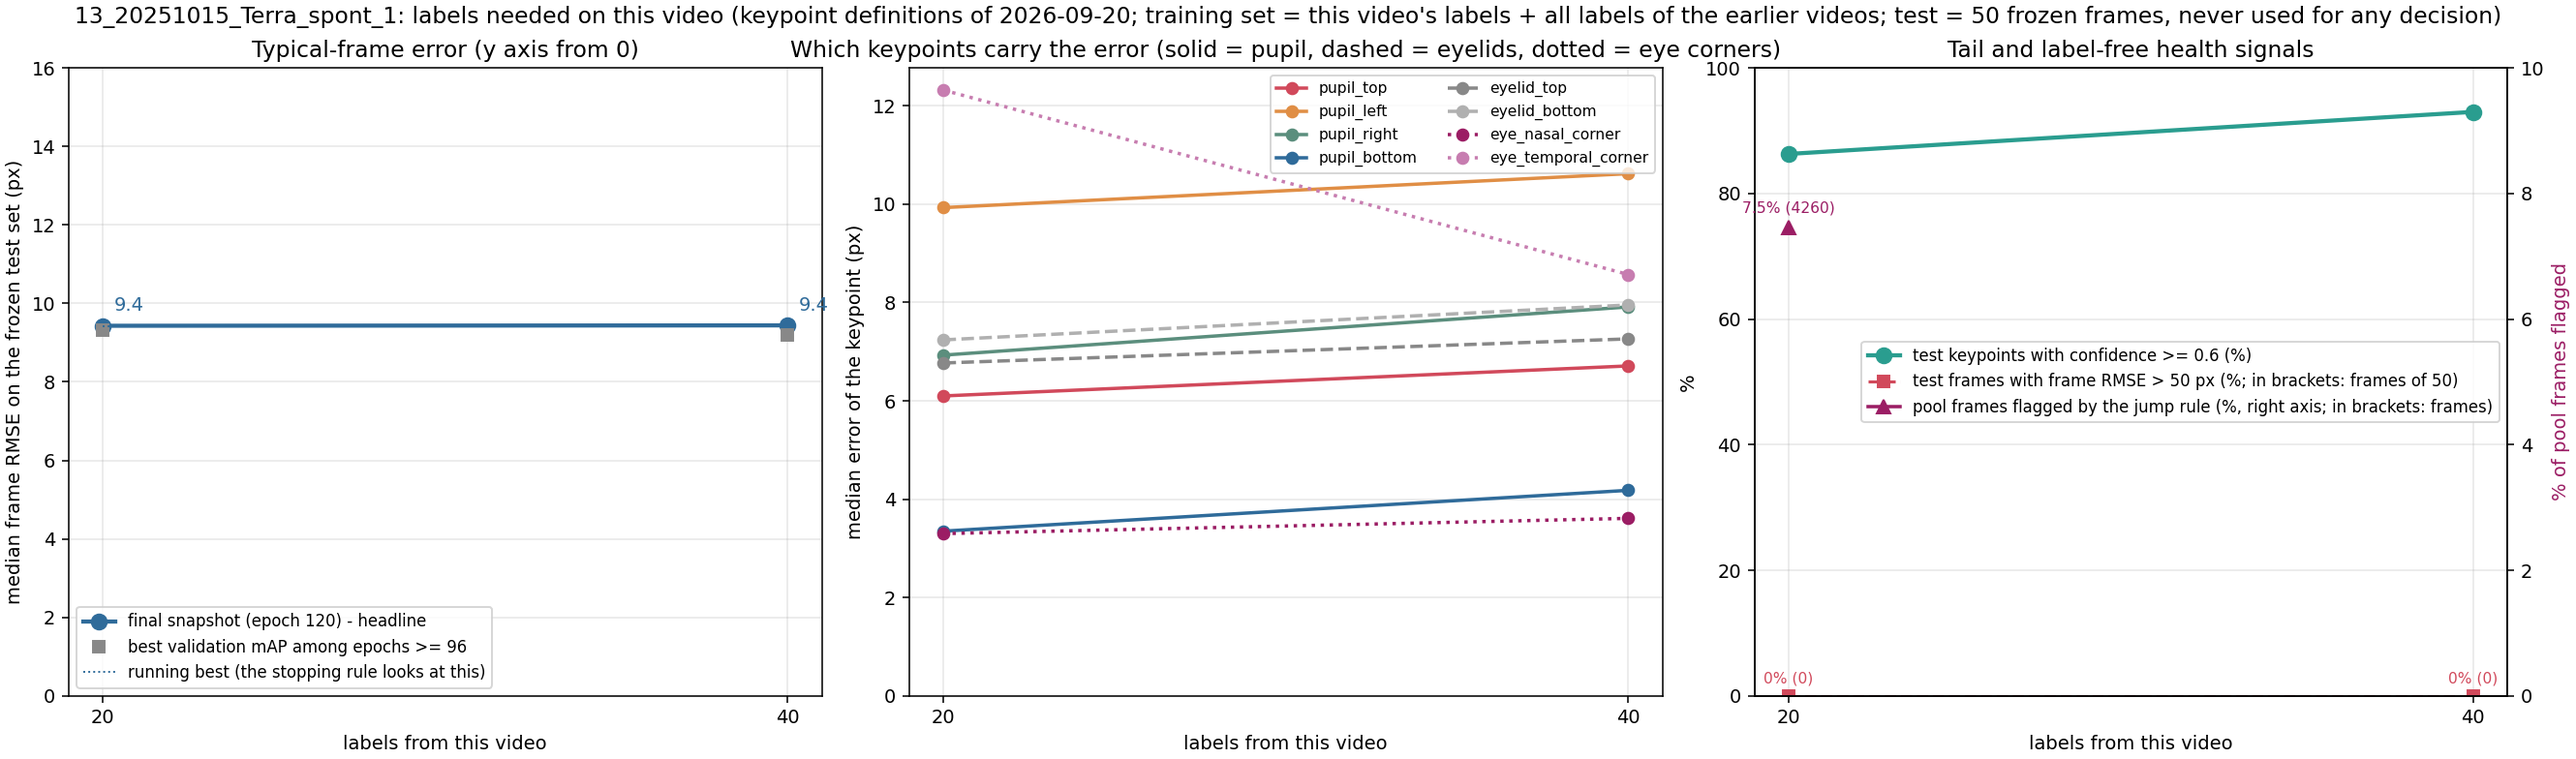
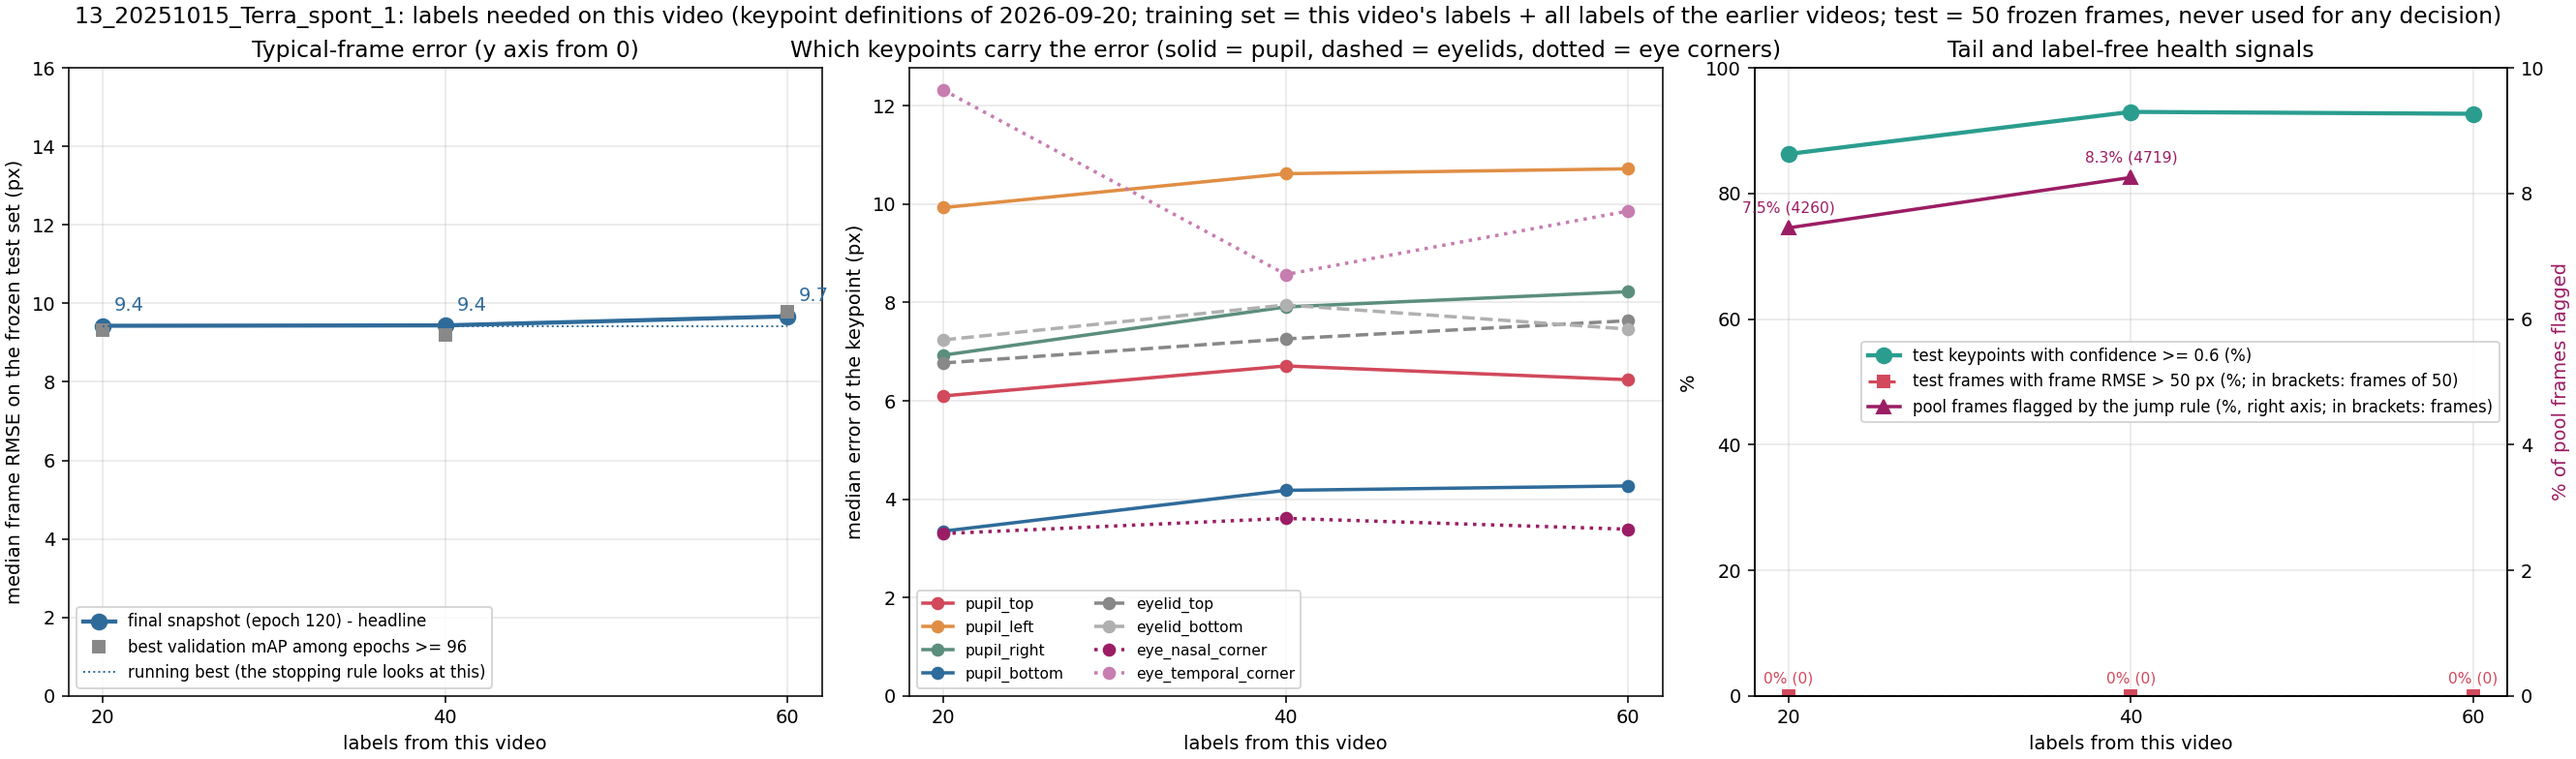
Video 13 step 3 (60 labels, shuffle 1413): 9.67 px, second flat step; plateau rule fired at 60, plateau point 20 labels 9.43 px, awaiting user decision

diff --git a/report/index.html b/report/index.html
@@ -78,7 +78,7 @@ math[display="block"]{margin:10px 0 6px;text-align:left;overflow-x:auto;max-widt
 
 <header>
   <h1><span lang="zh">小鼠眼睛关键点追踪：做了什么，结果是什么</span><span lang="en">Mouse eye keypoint tracking: what was done and what came out</span></h1>
-  <p class="muted small">Zhiheng Li (University of Minnesota), Kaiwen Sheng (Stanford) · <span lang="zh">页面生成时间</span><span lang="en">page built</span> 2026-10-06 01:17 · <a href="https://github.com/ZhihengLi0/mouse-behavior-tracking">GitHub: ZhihengLi0/mouse-behavior-tracking</a></p>
+  <p class="muted small">Zhiheng Li (University of Minnesota), Kaiwen Sheng (Stanford) · <span lang="zh">页面生成时间</span><span lang="en">page built</span> 2026-10-06 02:16 · <a href="https://github.com/ZhihengLi0/mouse-behavior-tracking">GitHub: ZhihengLi0/mouse-behavior-tracking</a></p>
 
   <div class="text" lang="zh">
     <p><b>任务：</b>用 DeepLabCut 在小鼠眼睛视频的每一帧上找 8 个点：瞳孔上、下、左、右，上眼睑、下眼睑，鼻侧眼角、颞侧眼角。由这 8 个点得到瞳孔大小、眼睛睁开程度和眨眼，之后与脑记录对齐。</p>
@@ -105,7 +105,7 @@ math[display="block"]{margin:10px 0 6px;text-align:left;overflow-x:auto;max-widt
       <li><b>瞳孔面积怎么算？</b>按 2026 年 9 月 20 日明确的定义，瞳孔四个点都是椭圆端点，在 12 个视频的 594 帧测试帧上，四点法的面积误差中位数是 6.6%，三点法是 8.3%；视频 4 和 8 上面积仍然不准（第 9 步）。</li>
       <li><b>眨眼怎么判断？</b>第一轮：上下眼睑点的距离低于该视频中位数的 70% 记为闭眼，眼睑点失效的帧按相邻关系和瞳孔置信度并入；标注者抽查 137 项，规则标出的闭眼 97% 是真的；13 个视频共 512 次闭眼事件。部分闭合算不算眨眼、眨眼的细分，还没有定（第 10 步）。</li>
     </ol>
-    <p><b>进度：</b>已完成 13 个视频（视频 0–12）；视频 13 进行中，按 0 / 20 / 40 / … 帧的误差为 69.13 / 9.43 / 9.44 px。</p>
+    <p><b>进度：</b>已完成 13 个视频（视频 0–12）；视频 13 进行中，按 0 / 20 / 40 / … 帧的误差为 69.13 / 9.43 / 9.44 / 9.67 px。</p>
   </div>
   <div class="text" lang="en">
     <p><b>Task:</b> DeepLabCut finds 8 points on every frame of a mouse-eye video: pupil top, bottom, left, right; upper and lower eyelid; nasal and temporal eye corner. From these we get pupil size, eye opening and blinks, to be aligned with brain recordings later.</p>
@@ -132,7 +132,7 @@ math[display="block"]{margin:10px 0 6px;text-align:left;overflow-x:auto;max-widt
       <li><b>How to compute the pupil area?</b> Under the definitions made explicit on 2026-09-20 all four pupil points are ellipse endpoints, and on the 594 test frames of 12 videos the four-point area has a median error of 6.6% against 8.3% for the three-point rule; on videos 4 and 8 the area is still not accurate (step 9).</li>
       <li><b>How to detect blinks?</b> First round: a frame is closed when the distance between the eyelid points is below 70% of the video's median, and frames with failed eyelid points are assigned by adjacency and pupil confidence; the labeler spot-checked 137 items and 97% of the flagged closures are real; 512 closure events on the 13 videos. Whether partial closures count, and the finer classes, are not decided (step 10).</li>
     </ol>
-    <p><b>Status:</b> 13 videos finished (videos 0–12); video 13 in progress, error at 0 / 20 / 40 / … labels: 69.13 / 9.43 / 9.44 px.</p>
+    <p><b>Status:</b> 13 videos finished (videos 0–12); video 13 in progress, error at 0 / 20 / 40 / … labels: 69.13 / 9.43 / 9.44 / 9.67 px.</p>
   </div>
 
   <div class="text" lang="zh">
@@ -621,7 +621,7 @@ math[display="block"]{margin:10px 0 6px;text-align:left;overflow-x:auto;max-widt
 <tr><td>10</td><td>Pluto<br>2025-10-22</td><td>500</td><td>18.13 / 11.83 / 10.32 / 10.49 / 10.76</td><td><span lang="zh"><b>40 帧，10.32 px</b></span><span lang="en"><b>40 labels, 10.32 px</b></span></td><td>80</td><td>40</td></tr>
 <tr><td>11</td><td>Terra<br>2025-10-17</td><td>540</td><td>25.96 / 9.24 / 8.86 / 8.77 / 8.65</td><td><span lang="zh"><b>40 帧，8.86 px</b></span><span lang="en"><b>40 labels, 8.86 px</b></span></td><td>80</td><td>40</td></tr>
 <tr><td>12</td><td>Terra<br>2025-10-16</td><td>580</td><td>5.13 / 5.77 / 5.84</td><td><span lang="zh"><b>0 帧，5.13 px</b></span><span lang="en"><b>0 labels, 5.13 px</b></span></td><td>40</td><td>0</td></tr>
-<tr><td>13</td><td>Terra<br>2025-10-15</td><td>580</td><td>69.13 / 9.43 / 9.44</td><td><span lang="zh">进行中（目前最好：20 帧，9.43 px）</span><span lang="en">in progress (best so far: 20 labels, 9.43 px)</span></td><td>40</td><td>–</td></tr>
+<tr><td>13</td><td>Terra<br>2025-10-15</td><td>580</td><td>69.13 / 9.43 / 9.44 / 9.67</td><td><span lang="zh">进行中（目前最好：20 帧，9.43 px）</span><span lang="en">in progress (best so far: 20 labels, 9.43 px)</span></td><td>60</td><td>–</td></tr>
       </tbody>
     </table>
   </div>

diff --git a/report/index_en.html b/report/index_en.html
@@ -75,7 +75,7 @@ math[display="block"]{margin:10px 0 6px;text-align:left;overflow-x:auto;max-widt
 
 <header>
   <h1><span lang="en">Mouse eye keypoint tracking: what was done and what came out</span></h1>
-  <p class="muted small">Zhiheng Li (University of Minnesota), Kaiwen Sheng (Stanford) · <span lang="en">page built</span> 2026-10-06 01:17 · <a href="https://github.com/ZhihengLi0/mouse-behavior-tracking">GitHub: ZhihengLi0/mouse-behavior-tracking</a></p>
+  <p class="muted small">Zhiheng Li (University of Minnesota), Kaiwen Sheng (Stanford) · <span lang="en">page built</span> 2026-10-06 02:16 · <a href="https://github.com/ZhihengLi0/mouse-behavior-tracking">GitHub: ZhihengLi0/mouse-behavior-tracking</a></p>
 
   
   <div class="text" lang="en">
@@ -103,7 +103,7 @@ math[display="block"]{margin:10px 0 6px;text-align:left;overflow-x:auto;max-widt
       <li><b>How to compute the pupil area?</b> Under the definitions made explicit on 2026-09-20 all four pupil points are ellipse endpoints, and on the 594 test frames of 12 videos the four-point area has a median error of 6.6% against 8.3% for the three-point rule; on videos 4 and 8 the area is still not accurate (step 9).</li>
       <li><b>How to detect blinks?</b> First round: a frame is closed when the distance between the eyelid points is below 70% of the video's median, and frames with failed eyelid points are assigned by adjacency and pupil confidence; the labeler spot-checked 137 items and 97% of the flagged closures are real; 512 closure events on the 13 videos. Whether partial closures count, and the finer classes, are not decided (step 10).</li>
     </ol>
-    <p><b>Status:</b> 13 videos finished (videos 0–12); video 13 in progress, error at 0 / 20 / 40 / … labels: 69.13 / 9.43 / 9.44 px.</p>
+    <p><b>Status:</b> 13 videos finished (videos 0–12); video 13 in progress, error at 0 / 20 / 40 / … labels: 69.13 / 9.43 / 9.44 / 9.67 px.</p>
   </div>
 
   
@@ -499,7 +499,7 @@ math[display="block"]{margin:10px 0 6px;text-align:left;overflow-x:auto;max-widt
 <tr><td>10</td><td>Pluto<br>2025-10-22</td><td>500</td><td>18.13 / 11.83 / 10.32 / 10.49 / 10.76</td><td><span lang="en"><b>40 labels, 10.32 px</b></span></td><td>80</td><td>40</td></tr>
 <tr><td>11</td><td>Terra<br>2025-10-17</td><td>540</td><td>25.96 / 9.24 / 8.86 / 8.77 / 8.65</td><td><span lang="en"><b>40 labels, 8.86 px</b></span></td><td>80</td><td>40</td></tr>
 <tr><td>12</td><td>Terra<br>2025-10-16</td><td>580</td><td>5.13 / 5.77 / 5.84</td><td><span lang="en"><b>0 labels, 5.13 px</b></span></td><td>40</td><td>0</td></tr>
-<tr><td>13</td><td>Terra<br>2025-10-15</td><td>580</td><td>69.13 / 9.43 / 9.44</td><td><span lang="en">in progress (best so far: 20 labels, 9.43 px)</span></td><td>40</td><td>–</td></tr>
+<tr><td>13</td><td>Terra<br>2025-10-15</td><td>580</td><td>69.13 / 9.43 / 9.44 / 9.67</td><td><span lang="en">in progress (best so far: 20 labels, 9.43 px)</span></td><td>60</td><td>–</td></tr>
       </tbody>
     </table>
   </div>

diff --git a/README.md b/README.md
@@ -26,7 +26,7 @@ per-frame predictions stay local; git carries code, documentation and audited ag
 | Finished | **video 10** (Pluto, 2025-10-22, the last Pluto video of the sequence): test50 / val20 / batch01 pre-labeled with the video-9 80-label model (1014) and corrected by the labeler (test50: 234 of 400 points moved), test set frozen; 0 labels (model 1014) = 18.13 px (p90 32.0, 8% of frames > 50 px), 20 labels = 11.83 px (p90 27.7, 2% > 50 px), 40 labels = 10.32 px (p90 26.1, 92% of keypoints with confidence >= 0.6), 60 labels = 10.49 px (p90 27.2, 8% > 50 px; no gain over 10.32), 80 labels = 10.76 px (p90 188.7, 12% > 50 px; no gain): the plateau rule fired at 80 (two steps without a gain on 10.32), finished at **40 labels, 10.32 px** (user decision 2026-10-03) |
 | Finished | **video 11** (Terra = mouse C, 2025-10-17, the first video of a new mouse): test50 / val20 / batch01 pre-labeled with the video-10 40-label model (1112) and corrected by the labeler (test50: 249 of 400 points moved), test set frozen; 0 labels (model 1112) = 25.96 px (p90 80.1, 16% of frames > 50 px), 20 labels = 9.24 px (p90 166.4, 20% of frames > 50 px), 40 labels = 8.86 px (p90 17.5, 4% of frames > 50 px, 94% of keypoints with confidence >= 0.6; 4.1% better on the median), 60 labels = 8.77 px (p90 12.9, 2% of frames > 50 px, 97% confidence; 1.0% better than 8.86, a flat step), 80 labels = 8.65 px (p90 13.1, 2% > 50 px, 98% confidence; 1.4% better, a second flat step): the plateau rule fired at 80, finished at **40 labels, 8.86 px** (user decision 2026-10-04). Training set of every step = 540 carried labels of videos 0-10 + this video's labels; shuffles 1211, 1212, ... |
 | Finished | **video 12** (Terra, 2025-10-16, second video of mouse C): test50 / val20 / batch01 pre-labeled with the video-11 40-label model (1212) and corrected by the labeler (test50: 110 of 400 points moved), test set frozen; 0 labels (model 1212) = 5.13 px, 20 labels = 5.77 px, 40 labels = 5.84 px (0% of frames > 50 px at every step): no step improves the 0-label number, the plateau rule fired at 40, finished with the plateau at **0 labels, 5.13 px** (user decision 2026-10-04 21:29); no labels carried |
-| In progress | **video 13** (Terra, 2025-10-15): test50 / val20 / batch01 extracted and pre-labeled with model 1212 and corrected by the labeler (test50: 287 of 400 points moved), test set frozen; 0 labels (model 1212) = 69.13 px (p90 116.6, 56% of frames > 50 px): the model that fitted video 12 does not fit this day; 20 labels (shuffle 1411) = 9.43 px (p90 16.0, 0% of frames > 50 px, 86% of keypoints with confidence >= 0.6; 86% better than the 0-label number); 40 labels (shuffle 1412) = 9.44 px (p90 14.1, 0% > 50 px, 93% confidence; no gain over 9.43, one flat step by the rule); batch 3 labeled (2026-10-05 23:59, 0 of 160 pre-labeled points moved), step 3 (shuffle 1413) training. Training set of every step = 580 carried labels of videos 0-11 + this video's labels; shuffles 1411, 1412, ... |
+| In progress | **video 13** (Terra, 2025-10-15): test50 / val20 / batch01 extracted and pre-labeled with model 1212 and corrected by the labeler (test50: 287 of 400 points moved), test set frozen; 0 labels (model 1212) = 69.13 px (p90 116.6, 56% of frames > 50 px): the model that fitted video 12 does not fit this day; 20 labels (shuffle 1411) = 9.43 px (p90 16.0, 0% of frames > 50 px, 86% of keypoints with confidence >= 0.6; 86% better than the 0-label number); 40 labels (shuffle 1412) = 9.44 px (p90 14.1, 0% > 50 px, 93% confidence; no gain over 9.43, one flat step by the rule); batch 3 labeled (2026-10-05 23:59, 0 of 160 pre-labeled points moved); 60 labels (shuffle 1413) = 9.67 px (p90 13.9, 0% > 50 px, 93% confidence; no gain, second flat step): **plateau rule fired at 60 (2026-10-06 02:14); plateau point by the rule 20 labels, 9.43 px; awaiting the user's decision**. Training set of every step = 580 carried labels of videos 0-11 + this video's labels; shuffles 1411, 1412, ... |
 | Analysis (2026-10-04) | blink and pupil area on all 12 finished videos (`v2_new_pupil_top_video_scaling/results/blink_and_area/`): four-point area median error 6.6% (three-point 8.3%); closed eye best detected by the mean confidence of the four pupil points (27 of 28 closed frames, 4.1% of open frames flagged; the earlier rule flags 55.7%); area traces still contain tracking jumps not covered by the closure rule. Error and confidence per keypoint (`.../results/keypoint_confidence_error/`): pupil top is the least accurate point (10.9 px median) |
 | Next | Terra units 14-18, one recording day each, newest first |
 
@@ -49,7 +49,7 @@ Labels needed per video (plateau = two consecutive 20-label steps that improve t
 | 10 | Pluto, 2025-10-22 | 500 | 18.13 / 11.83 / 10.32 / 10.49 / 10.76 px (v2) | 40 labels, 10.3 px (rule fired at 80) |
 | 11 | Terra (mouse C), 2025-10-17 | 540 | 25.96 / 9.24 / 8.86 / 8.77 / 8.65 px (v2) | 40 labels, 8.9 px (rule fired at 80) |
 | 12 | Terra (mouse C), 2025-10-16 | 580 | 5.13 / 5.77 / 5.84 px (v2) | 0 labels, 5.1 px (rule fired at 40) |
-| 13 | Terra (mouse C), 2025-10-15 | 580 | 69.13 / 9.43 / 9.44 px (v2, in progress) | – |
+| 13 | Terra (mouse C), 2025-10-15 | 580 | 69.13 / 9.43 / 9.44 / 9.67 px (v2, in progress) | rule fired at 60; plateau point 20 labels, 9.4 px; awaiting decision |
 
 What the numbers say:
 

diff --git a/v2_new_pupil_top_video_scaling/results/README.md b/v2_new_pupil_top_video_scaling/results/README.md
@@ -25,7 +25,7 @@ snapshot with the best validation mAP after the first learning-rate drop (epochs
 | 10 `10_20251022_Pluto1` | mouse B, 19.9 min, 2025-10-22 | 500 (videos 0-3 + 40 of video 4 + 20 each of videos 5, 6, 8 + 80 of video 9) | convention v2: 18.13 / 11.83 / 10.32 / 10.49 / 10.76 | **40 labels** (rule fired at 80; user decision 2026-10-03) | 10.32 px |
 | 11 `11_20251017_Terra_spont_1` | mouse C (Terra), 19.9 min, 2025-10-17 | 540 (videos 0-3 + 40 of video 4 + 20 each of videos 5, 6, 8 + 80 of video 9 + 40 of video 10) | convention v2: 25.96 / 9.24 / 8.86 / 8.77 / 8.65 | **40 labels** (rule fired at 80; user decision 2026-10-04) | 8.86 px |
 | 12 `12_20251016_Terra_spont_2` | mouse C (Terra), 19.9 min, 2025-10-16 | 580 (as for video 11 + 40 of video 11) | convention v2: 5.13 (0 labels; biased low by the pre-labels; see the video's README) / 5.77 / 5.84 | **0 labels** (rule fired at 40; the video-11 model already fits) | 5.13 px |
-| 13 `13_20251015_Terra_spont_1` | mouse C (Terra), 19.9 min, 2025-10-15 | 580 (video 12 carries none) | convention v2: 69.13 / 9.43 / 9.44 | in progress (one flat step at 40) | – |
+| 13 `13_20251015_Terra_spont_1` | mouse C (Terra), 19.9 min, 2025-10-15 | 580 (video 12 carries none) | convention v2: 69.13 / 9.43 / 9.44 / 9.67 | in progress (rule fired at 60; plateau point 20 labels; awaiting decision) | – |
 
 `labels_to_plateau.png` / `labels_to_plateau.csv` (2026-09-30): the plateau point of every video in the sequence as one figure - labels needed (left) and the error at the plateau vs the 0-label error (right); `scripts/plot_labels_to_plateau.py`. The csv is the table above in machine-readable form and is updated when a video finishes.
 

diff --git a/v2_new_pupil_top_video_scaling/13_20251015_Terra_spont_1/results/README.md b/v2_new_pupil_top_video_scaling/13_20251015_Terra_spont_1/results/README.md
@@ -13,6 +13,7 @@ in total) + this video's labels; shuffles 1411, 1412, ...
 | 0 (video-11 40-label model 1212, applied unchanged) | 69.13 px | 116.6 | 56% | 24% | – |
 | 20 (shuffle 1411) | 9.43 px | 16.0 | 0% | 86% | 4260 of 57158 (7.5%) |
 | 40 (shuffle 1412) | 9.44 px | 14.1 | 0% | 93% | 4719 of 57158 (8.3%) |
+| 60 (shuffle 1413) | 9.67 px | 13.9 | 0% | 93% | pending |
 
 The model that fitted video 12 (the day after, 5.13 px) does not fit this day: 69 px at 0 labels, more than half of
 the test frames above 50 px. The other models of videos 11 and 12 give 31.5-79.4 px on this test set
@@ -25,3 +26,8 @@ jump selection followed. So far: 5 labels = 10.46 / 16.03 px (subsets a / b; p90
 
 Step 2 (40 labels): 9.44 px, no gain over the running best 9.43 px (step 1): one flat step by the rule (2026-10-05 22:43). The p90 improved
 from 16.0 to 14.1 px and the share of confident keypoints from 86% to 93%, but the median did not move.
+
+Step 3 (60 labels): 9.67 px, again no gain over the running best 9.43 px (step 1); second flat step in a row, so the
+plateau rule fired at 60 (2026-10-06 02:14). **Plateau point by the rule: 20 labels, 9.43 px; awaiting the user's
+decision** (status stays in progress; batch 4 is selected but not opened for labeling). Batch 3 itself: the labeler kept
+all 160 pre-labeled points unchanged.
